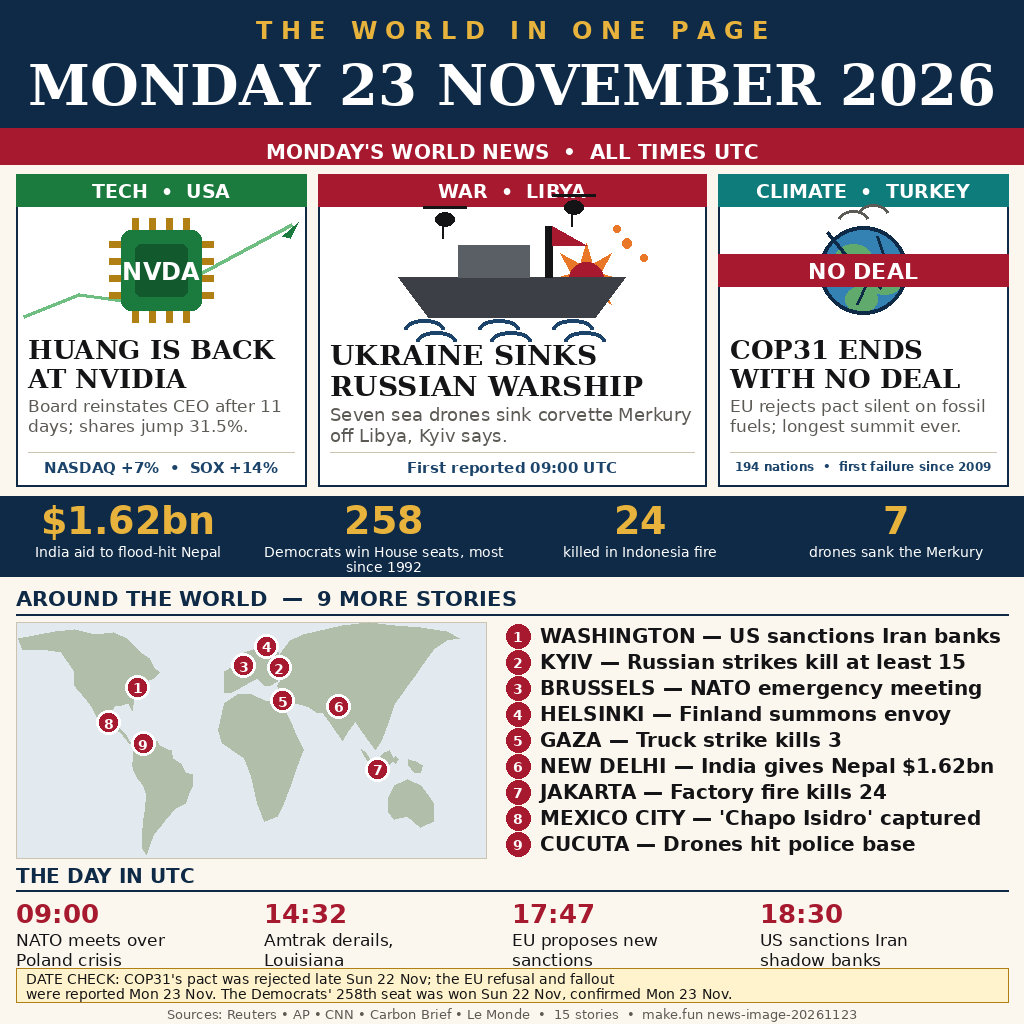
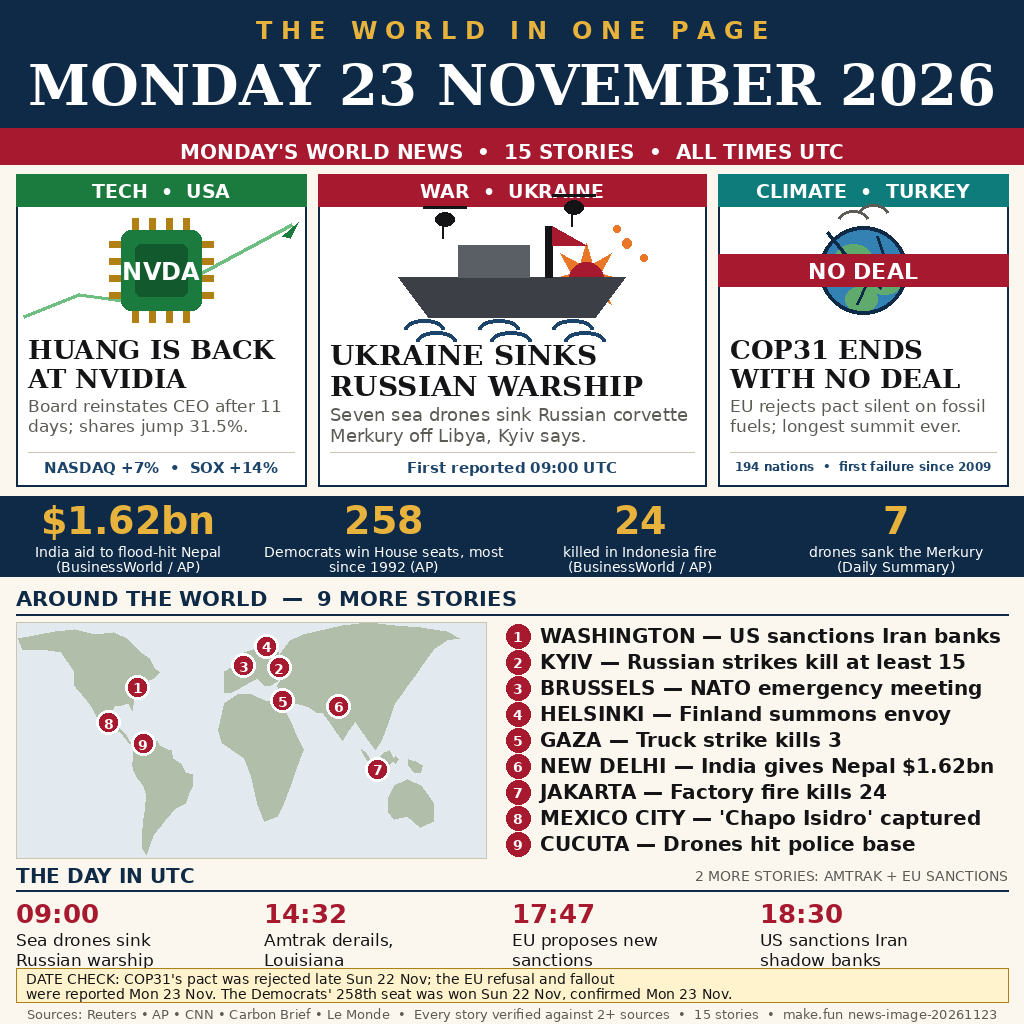
Nemotron round: WAR-UKRAINE kicker, stats sources, timeline 09:00 Merkury, 15-story mapping
- Hero kicker WAR-LIBYA -> WAR-UKRAINE (headline subject); deck now
  names the Russian corvette Merkury outright
- Timeline 09:00 NATO -> Sea drones sink Russian warship (first
  reported 09:00 UTC, verified in stories.json): 3 of 4 slots now
  pin-unique; Nemotron example headlines NOT used (fabricated)
- Stats bar: every stat carries its source inline (BusinessWorld/AP,
  AP, Daily Summary); footer adds 'Every story verified against
  2+ sources'; DATE CHECK box untouched
- 15-story structure explicit: masthead strip '15 STORIES', timeline
  header notes '2 MORE STORIES: AMTRAK + EU SANCTIONS'
- Polish: icons/palette verified consistent; NVIDIA sparkline already
  present; House donut skipped (258+173=431, not 435)

diff --git a/build_image.py b/build_image.py
@@ -26,6 +26,26 @@
 #   every verified timed event on 23 Nov belongs to one of the 15 stories,
 #   so the timeline is a chronological recap and its slots now carry
 #   distinct facets/wording instead of verbatim repeats.
+# Revision 2 (Nemotron, 25 Nov 2026):
+# - Hero kicker "WAR • LIBYA" -> "WAR • UKRAINE": the label clashed with
+#   the headline's subject (Ukraine); the location stays in the deck
+#   ("off Libya") and the deck now names the "Russian corvette Merkury"
+#   outright, so the ship needs no separate footnote.
+# - Timeline 09:00 slot swapped NATO -> Merkury sinking (first reported
+#   09:00 UTC, verified in stories.json): 3 of 4 timeline slots are now
+#   pin-unique (Merkury/hero, Amtrak, EU); only 18:30 still recaps a pin
+#   (#1, as the "shadow banks" facet). Nemotron's example headlines were
+#   fabricated and were NOT used; the swap uses a verified timed event.
+# - Stats bar: every stat now carries its source inline (BusinessWorld /
+#   AP, AP, Daily Summary). Footer adds the "Every story verified
+#   against 2+ sources" trust line; DATE CHECK box itself untouched.
+# - 15-story structure made explicit: masthead strip says "15 STORIES",
+#   timeline header notes "2 MORE STORIES: AMTRAK + EU SANCTIONS".
+# - Polish: icons/palette verified consistent (red numbered pins, colour
+#   kicker bands, navy/red/cream); NVIDIA sparkline already exists (chart
+#   line behind the chip). House-seat donut NOT added: verified seats
+#   (258 Dem + 173 Rep = 431) do not sum to 435 and the number already
+#   communicates; a donut would cost space and invite a wrong total.
 # - Map: North America polygon redrawn (real Mexico/Central America +
 #   Florida peninsula) and South America north coast redrawn, so pins #8
 #   (Mexico City) and #9 (Cucuta) sit on land instead of in the Pacific;
@@ -69,7 +89,9 @@ def font(path, size):
 
 
 def wrap(draw, text, fnt, max_w):
-    words = text.split()
+    # Split on plain spaces only: a non-breaking space (U+00A0) inside a
+    # phrase such as "(Daily Summary)" must keep that phrase on one line.
+    words = [w for w in text.split(" ") if w != ""]
     lines, cur = [], ""
     for word in words:
         trial = (cur + " " + word).strip()
@@ -102,7 +124,8 @@ def centered(draw, cx, y, text, fnt, fill):
 # (written alongside this script in the repo). Numbers verified twice.
 # The image carries all 15 distinct stories: 3 heroes + 9 map stories +
 # the Democrats' 258 seats (stats bar) + the EU sanctions and Amtrak
-# derailment (UTC timeline).
+# derailment (UTC timeline; the timeline's other two slots recap the
+# 09:00 Merkury sinking and the 18:30 Iran sanctions as dated moments).
 # ---------------------------------------------------------------------------
 
 HEROES = [
@@ -115,10 +138,10 @@ HEROES = [
         "stat": "NASDAQ +7%  •  SOX +14%",
     },
     {
-        "kicker": "WAR  •  LIBYA",
+        "kicker": "WAR  •  UKRAINE",
         "color": RED,
         "head": "UKRAINE SINKS RUSSIAN WARSHIP",
-        "deck": "Seven sea drones sink corvette Merkury off Libya, Kyiv says.",
+        "deck": "Seven sea drones sink Russian corvette Merkury off Libya, Kyiv says.",
         "art": "ship",
         "stat": "First reported 09:00 UTC",
     },
@@ -148,14 +171,14 @@ MAP_STORIES = [
 ]
 
 STATS = [
-    ("$1.62bn", "India aid to flood-hit Nepal"),
-    ("258", "Democrats win House seats, most since 1992"),
-    ("24", "killed in Indonesia fire"),
-    ("7", "drones sank the Merkury"),
+    ("$1.62bn", "India aid to flood-hit Nepal (BusinessWorld / AP)"),
+    ("258", "Democrats win House seats, most since 1992 (AP)"),
+    ("24", "killed in Indonesia fire (BusinessWorld / AP)"),
+    ("7", "drones sank the Merkury (Daily Summary)"),
 ]
 
 TIMELINE = [
-    ("09:00", "NATO meets over Poland crisis"),
+    ("09:00", "Sea drones sink Russian warship"),
     ("14:32", "Amtrak derails, Louisiana"),
     ("17:47", "EU proposes new sanctions"),
     ("18:30", "US sanctions Iran shadow banks"),
@@ -352,7 +375,7 @@ def draw_masthead(draw):
     draw.rectangle([(0, 128), (W, 164)], fill=RED)
     f3 = font(F_SANS_B, 20)
     centered(draw, W // 2, 140,
-             "MONDAY'S WORLD NEWS  •  ALL TIMES UTC",
+             "MONDAY'S WORLD NEWS  •  15 STORIES  •  ALL TIMES UTC",
              f3, WHITE)
 
 
@@ -456,6 +479,11 @@ def draw_map_section(draw):
 def draw_timeline(draw, y0):
     fh = font(F_SANS_B, 20)
     draw.text((16, y0), "THE DAY IN UTC", font=fh, fill=NAVY)
+    # explicit mapping: the timeline carries 2 more stories (Amtrak, EU)
+    fnote = font(F_SANS, 14)
+    note = "2 MORE STORIES: AMTRAK + EU SANCTIONS"
+    centered(draw, W - 16 - draw.textlength(note, font=fnote) / 2, y0 + 4,
+             note, fnote, GREY)
     draw.line([(16, y0 + 26), (W - 16, y0 + 26)], fill=NAVY, width=2)
     col = (W - 32) // 4
     for i, (t, what) in enumerate(TIMELINE):
@@ -482,7 +510,7 @@ def draw_bottom(draw):
               font=f, fill=INK)
     ff = font(F_SANS, 13)
     centered(draw, W // 2, 1006,
-             "Sources: Reuters • AP • CNN • Carbon Brief • Le Monde  •  15 stories  •  make.fun news-image-20261123",
+             "Sources: Reuters • AP • CNN • Carbon Brief • Le Monde  •  Every story verified against 2+ sources  •  15 stories  •  make.fun news-image-20261123",
              ff, GREY)
 
 

diff --git a/README.md b/README.md
@@ -8,8 +8,12 @@ One image that sums up Monday 23 November 2026: 15 verified stories in
 English, built to be read at a glance. Three illustrated heroes — Huang back
 at Nvidia (+31.5%), Ukraine sinking the Russian corvette Merkury off Libya,
 COP31 ending with no deal — plus a numbered world map with 9 more stories,
-a stats bar, a UTC timeline and a DATE CHECK box that is honest about the two
-Sunday-evening results (COP31, Democrats' 258th seat) confirmed on Monday.
+a stats bar (each stat sourced), a UTC timeline and a DATE CHECK box that is
+honest about the two Sunday-evening results (COP31, Democrats' 258th seat)
+confirmed on Monday. The 15 break down as 3 heroes + 9 on the map + the
+Democrats' 258 seats in the stats bar + 2 more stories in the timeline
+(Amtrak derailment, EU sanctions); the timeline's other two slots are the
+day's dated moments (09:00 Merkury sinking, 18:30 Iran sanctions).
 
 ## Why this design
 
@@ -25,8 +29,9 @@ against at least two independent sources (see `stories.json`).
   renderer produces identical bytes.
 - `build_image.py` — renderer (Python + PIL, no network): masthead, three
   illustrated hero panels (middle hero wider — the Ukraine warship story
-  leads), stats bar, schematic world map with numbered pins, UTC timeline,
-  DATE CHECK box, sources footer. The image carries 15 distinct stories:
+  leads, kicker WAR • UKRAINE), stats bar with a source on every stat,
+  schematic world map with numbered pins, UTC timeline, DATE CHECK box,
+  sources footer. The image carries 15 distinct stories:
   3 heroes + 9 map stories + the Democrats' 258 seats (stats bar) + the EU
   sanctions and Amtrak derailment (UTC timeline).
 - `stories.json` — one record per story: source, second source, numbers,
